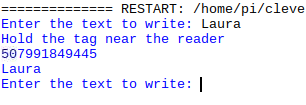
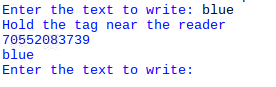
Add led step

Changed region(s): [[0.0, 0.0, 1.0, 0.7126], [0.0, 0.7126, 0.6957, 0.8966]]

diff --git a/en/step_7.md b/en/step_7.md
@@ -1,0 +1,46 @@
+## Add an LED
+
+Each player will have a colour which will be displayed by an LED. When they are tagged by another player, their LED will change colour to that player's colour.
+
+First, let's connect the LED to the Raspberry Pi.
+
+If you are using the LED which comes with the kit, it will already have jumper wires and resistors attached.
+
+![Wired up LED](images/wired-up-led.png)
+
+--- collapse ---
+---
+title: How to set up your RGB LED
+---
+If you bought your LED separately, you will need to do some soldering. Solder a 100 Ohm resistor to each of the short legs of the LED, then attach a female-female jumper lead to the other end of each resistor. Add one more female-female lead directly attached to the long leg of the LED.
+
+If you are just prototyping your circuit, you could avoid soldering by attaching the RGB LED and resistors to a breadboard, although you will need to remove the breadboard to be able to attach the LED to the vest.
+
+The longest leg of your LED is probably the **cathode** which means it should be attached to ground. On some RGB LEDs, the longest leg is the **anode** which should be attached to `3v3` power. Unless you already know which type of LED you have, attach the longest leg to a `GND` pin, and the other three legs to free GPIO pins. If the LED does not seem to be working, swap `GND` to `3v3`.
+
+--- /collapse ---
+
++ Connect the black wire to a `GND` pin on the Raspberry Pi
+
++ Connect each of the coloured wires to a free GPIO pin on the Raspberry Pi. You can use any free pin but in this resource we will connect red to GPIO 18, green to GPIO 23 and blue to GPIO 24.
+
++ Create a new Python file called `led_test.py`, saving it in the same folder as your previous files.
+
++ This time, import the gpiozero library to control the LED:
+
+```Python
+from gpiozero import RGBLED
+```
+
++ Create a connection to the LED. You will need to specify which pin you connected each of the colours to, so if you used different pins to our example remember to change the pin numbers in the code accordingly:
+
+```python
+led = RGBLED(red=18, green=23, blue=24)
+```
++ Finally, set the LED's blue level to 1 which is the maximum possible:
+
+```python
+led.blue = 1
+```
+
++ Save and run your program. You should see the LED light up in blue. Be patient - it might take a few seconds for your program to run.

diff --git a/en/step_6.md b/en/step_6.md
@@ -1,8 +1,8 @@
 ## Write to a card
 
-Each RFID tag or card has a very small amount of memory which can be written to. You can only write up to 48 characters, so let's write the player's name onto the card.
+Each RFID tag or card has a very small amount of memory which can be written to. You can only write up to 48 characters, so let's write the name of a colour onto the card so that each player can have their own colour.
 
-+ Make a copy of your test program and call it `write_name.py`. Save it in the same folder.
++ Make a copy of your test program and call it `write_card.py`. Save it in the same folder.
 
 + Locate this line of code which reads a card and remove it:
 
@@ -29,6 +29,6 @@ card_id, card_text = reader.write(text)
 
 ![Write text](images/write-text.png)
 
-+ If you want to check whether the write has worked, press <kbd>Ctrl + C</kbd> and then run your `rfid_test.py` program before scanning the card.
++ If you want to check whether the write has worked, close the Python shell and then run your `rfid_test.py` program before scanning the card. You should see the text `blue` is now associated with the card you used.
 
 ![Hold near RFID](images/hold-near-rfid.png)

diff --git a/en/step_2.md b/en/step_2.md
@@ -9,9 +9,9 @@ We used the [Monk Makes clever card kit](https://www.monkmakes.com/cck/){:target
 + RFID tag reader
 + RFID tag or card
 + 7 female-female jumper leads
-+ RGB LED with pre-attached jumper leads
++ Pre-wired RGB LED
 
-However, you could purchase these components separately.
+If you are not using the kit you will need a RGB LED, 3x100 Ohm resistors and 4 additional female-female jumper leads to replace the pre-wired LED.
 
 Plus:
 
@@ -51,4 +51,5 @@ Your Raspberry Pi will reboot after the final command.
 + Old t-shirt or sports bib
 + Needle and thread
 + Glove
-+ Soldering iron or hammer (depending on your chosen header)
++ Soldering iron
++ Hammer (optional, depending on your chosen header)

diff --git a/en/step_5.md b/en/step_5.md
@@ -57,4 +57,4 @@ Using `finally:` means that the GPIO cleanup will happen regardless when you exi
 
 ![Tag read](images/tag-read.png)
 
-+ Press <kbd>Ctrl + C</kbd> to exit the infinite loop in the program. You will see an error message but you can ignore this for now.
++ Close the Python shell to exit the infinite loop in the program. 
